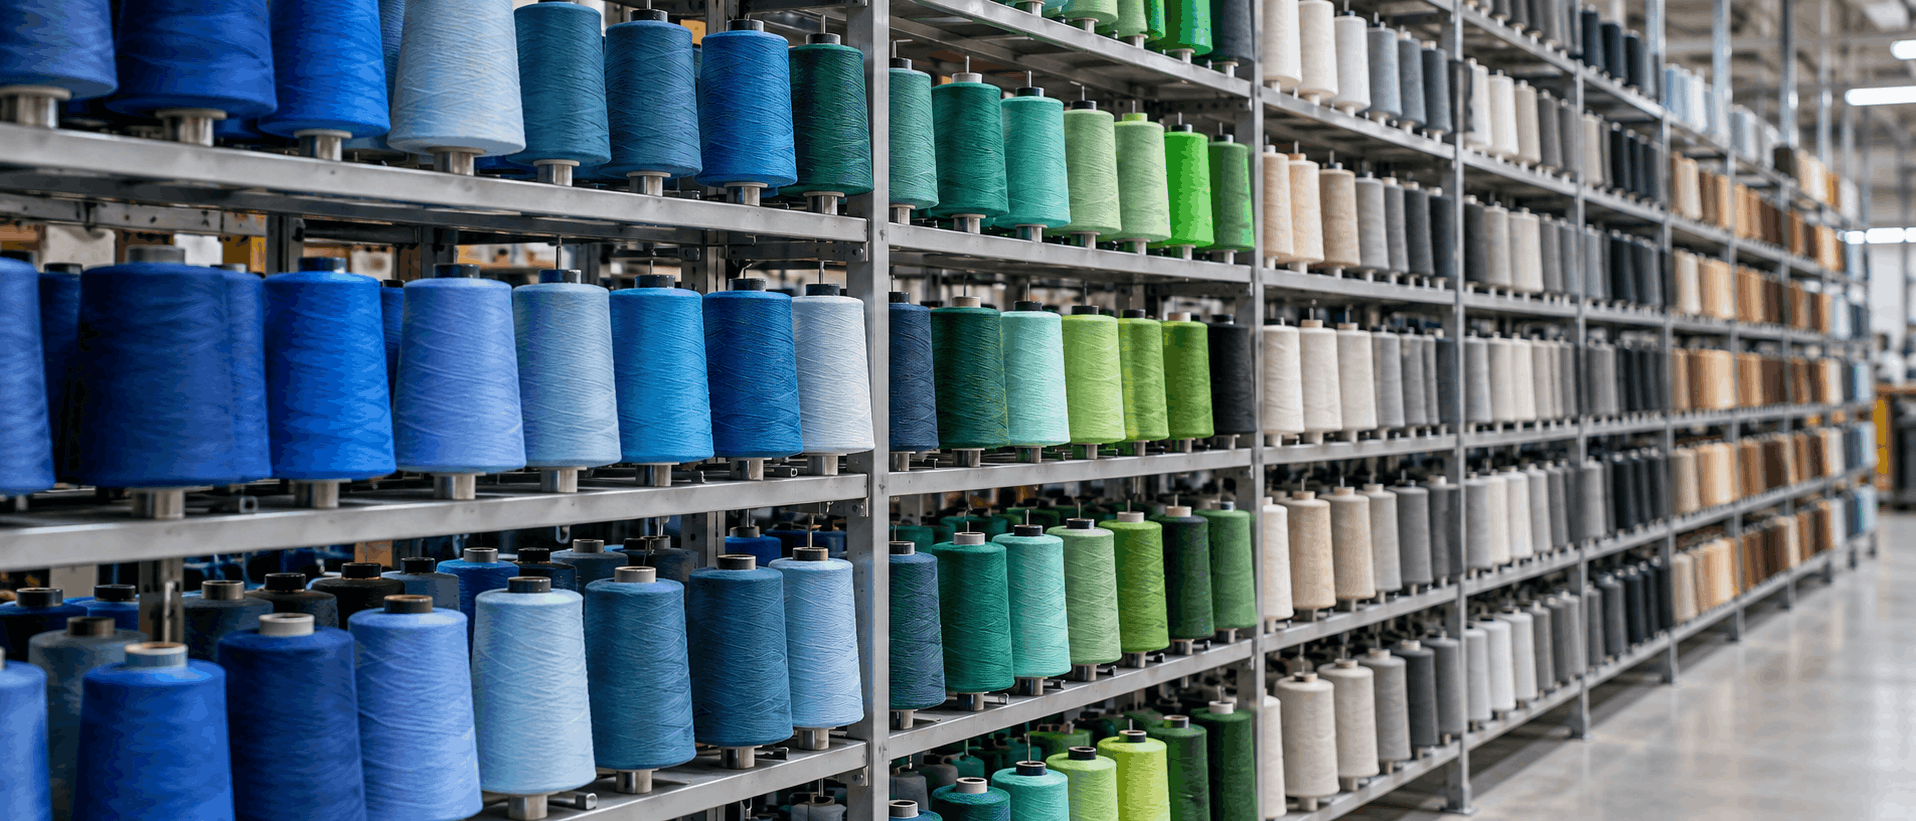
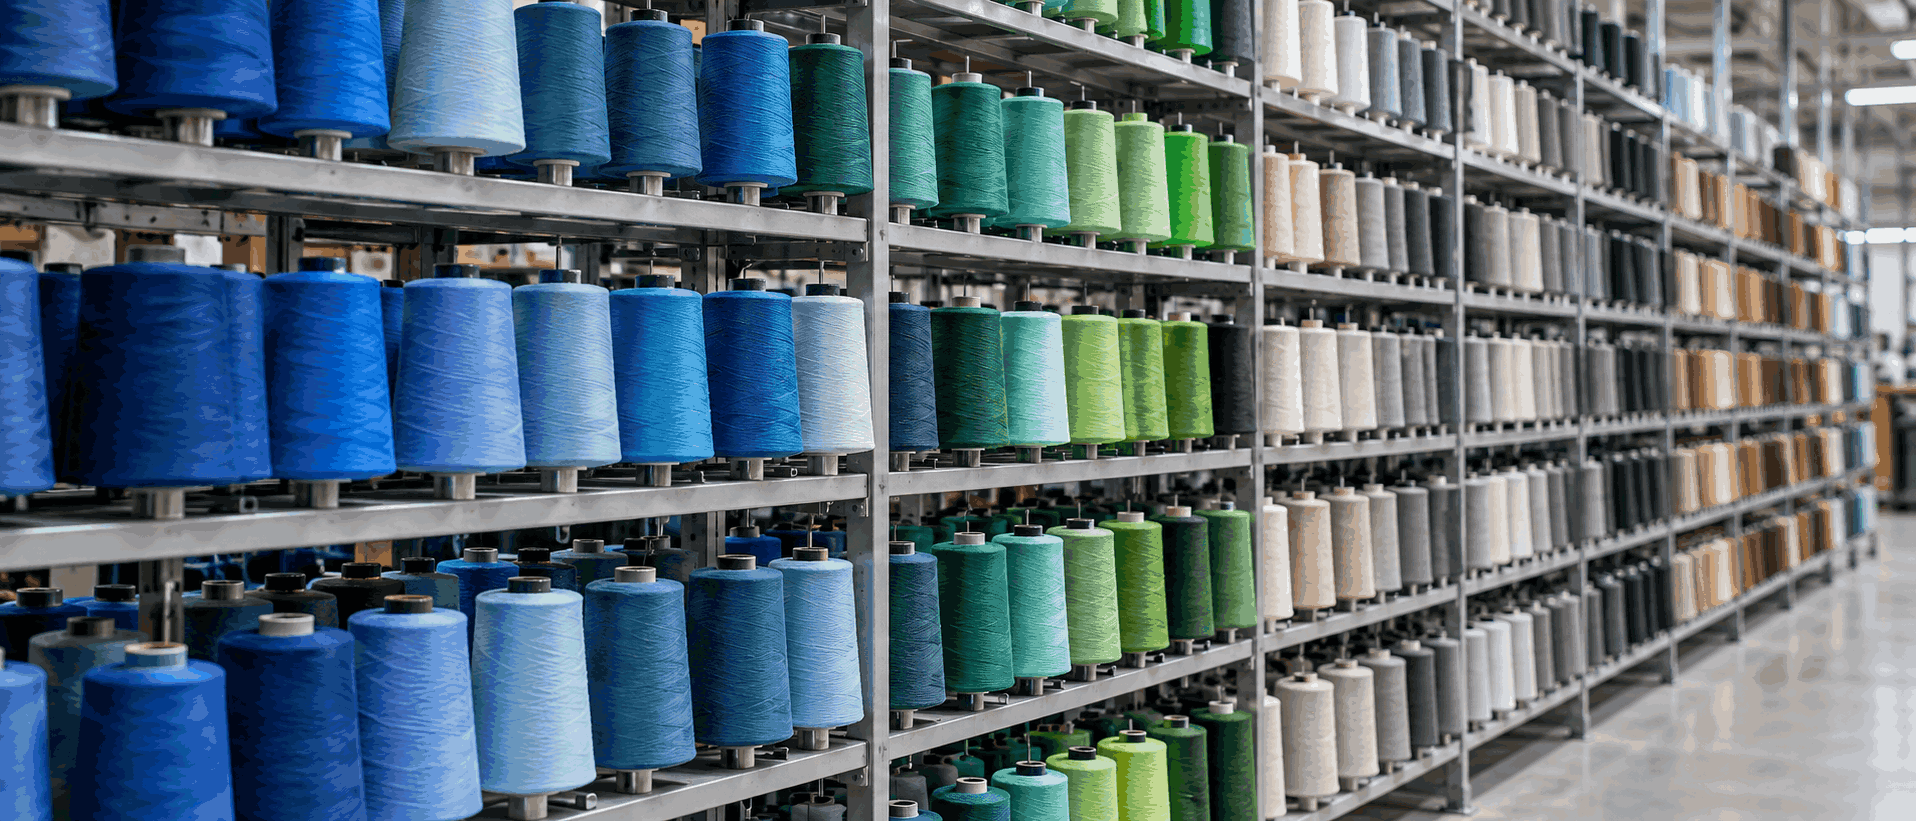
About page: house style, brand marquee, timeline scroll animation, page images

diff --git a/src/data/media.js b/src/data/media.js
@@ -56,7 +56,7 @@ export const services = {
    Added as we convert About.jsx. */
 export const about = {
     overview: "/about/overview.png",   // facility or head office, 5:4
-    ceoPortrait: "/about/ceo.jpeg",
+    ceoPortrait: "/about/ceo.jpg",
     designStudio: "/about/design-studio.png",
     chinaSourcing: "/about/china-sourcing.png",
 };
